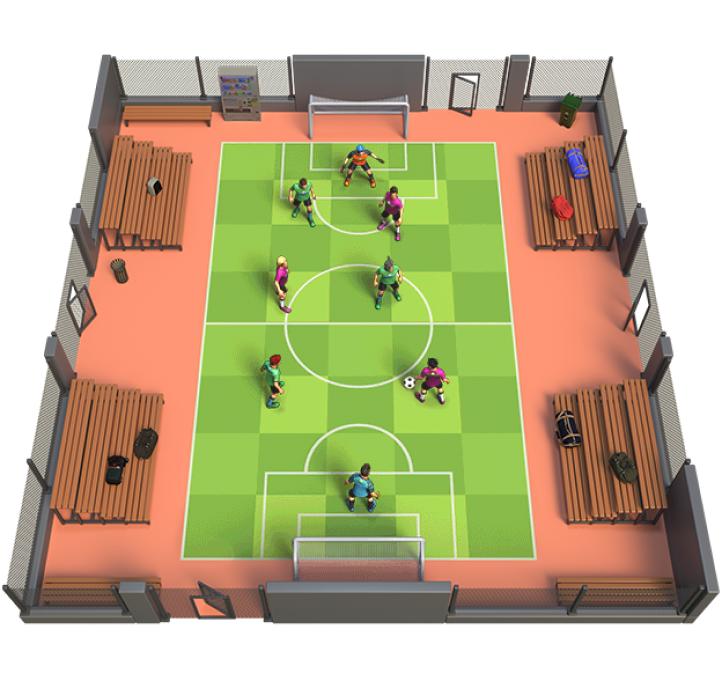
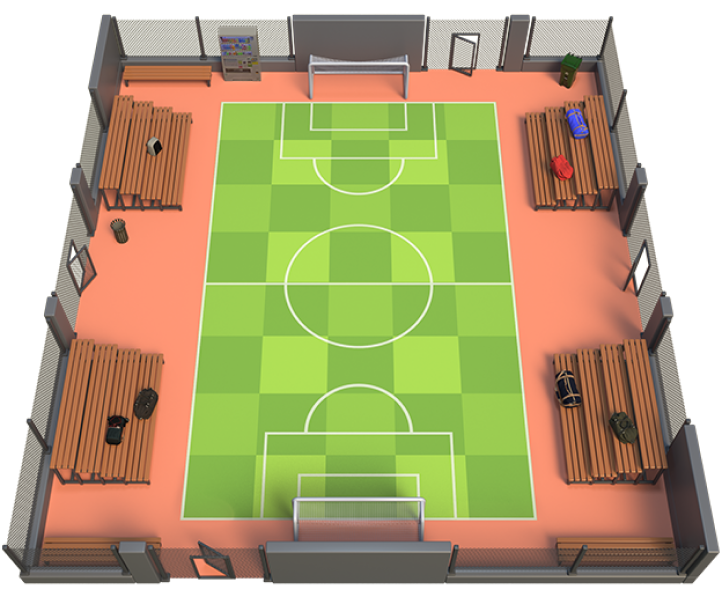
web/console: add animation

diff --git a/web/console/src/app/components/home/FootballGame/index.scss b/web/console/src/app/components/home/FootballGame/index.scss
@@ -52,8 +52,21 @@
     }
 
     &__field {
-        width: 100%;
-        height: 100%;
+        position: relative;
+        overflow: hidden;
+
+        &__bg {
+            width: 100%;
+            height: 100%;
+        }
+
+        &__animation {
+            position: absolute;
+            width: 100%;
+            left: 50%;
+            top: 50%;
+            transform: translate(-50%, -50%);
+        }
     }
 
     &__button-desktop {
@@ -161,7 +174,7 @@
         }
 
         &__subtitle {
-            margin: 14px 0 0;
+            margin: 14px 0 30px;
             font-size: 30px;
         }
 
@@ -177,6 +190,7 @@
 
         &__button-mobile {
             width: 100%;
+            margin-top: 20px;
             display: block;
         }
     }
@@ -193,9 +207,16 @@
         }
 
         &__subtitle {
+            margin: 14px 0 26px;
             text-align: center;
             font-size: 24px;
             line-height: 29px;
+        }
+
+        &__button-mobile {
+            width: 100%;
+            margin-top: 14px;
+            display: block;
         }
     }
 }

diff --git a/web/console/src/app/components/home/FootballGame/index.tsx b/web/console/src/app/components/home/FootballGame/index.tsx
@@ -4,6 +4,7 @@
 import { JoinButton } from '@components/common/JoinButton';
 
 import field from '@static/img/gameLanding/main/field.png';
+import fieldAnimation from '@static/img/gameLanding/main/field-animation.gif';
 
 import './index.scss';
 
@@ -14,8 +15,9 @@ export const FootballGame: React.FC = () =>
             <h2 className="football-game__subtitle">Football P2E Game</h2>
             <div className="football-game__button-desktop"><JoinButton /></div>
         </div>
-        <picture>
-            <img className="football-game__field" src={field} alt="Football field" />
+        <picture className="football-game__field">
+            <img className="football-game__field__bg" src={field} alt="Football field" />
+            <img className="football-game__field__animation" src={fieldAnimation} alt="Football field" />
         </picture>
         <div className="football-game__button-mobile"><JoinButton /></div>
     </section>;
